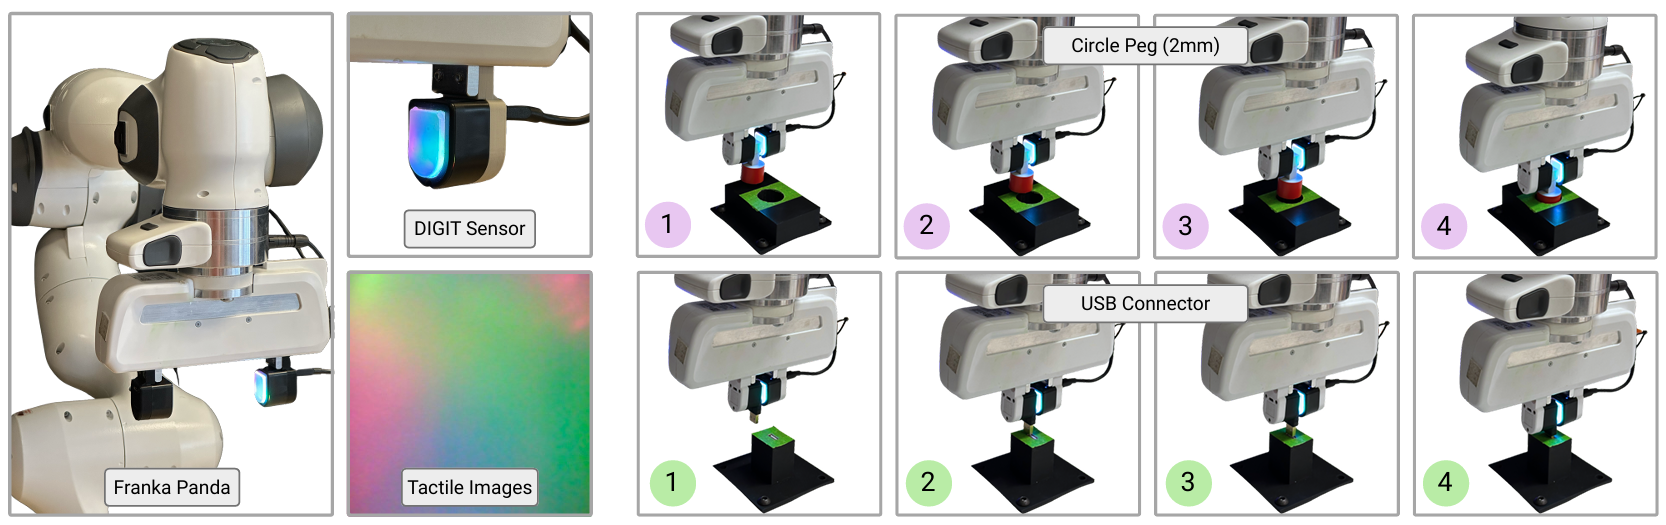
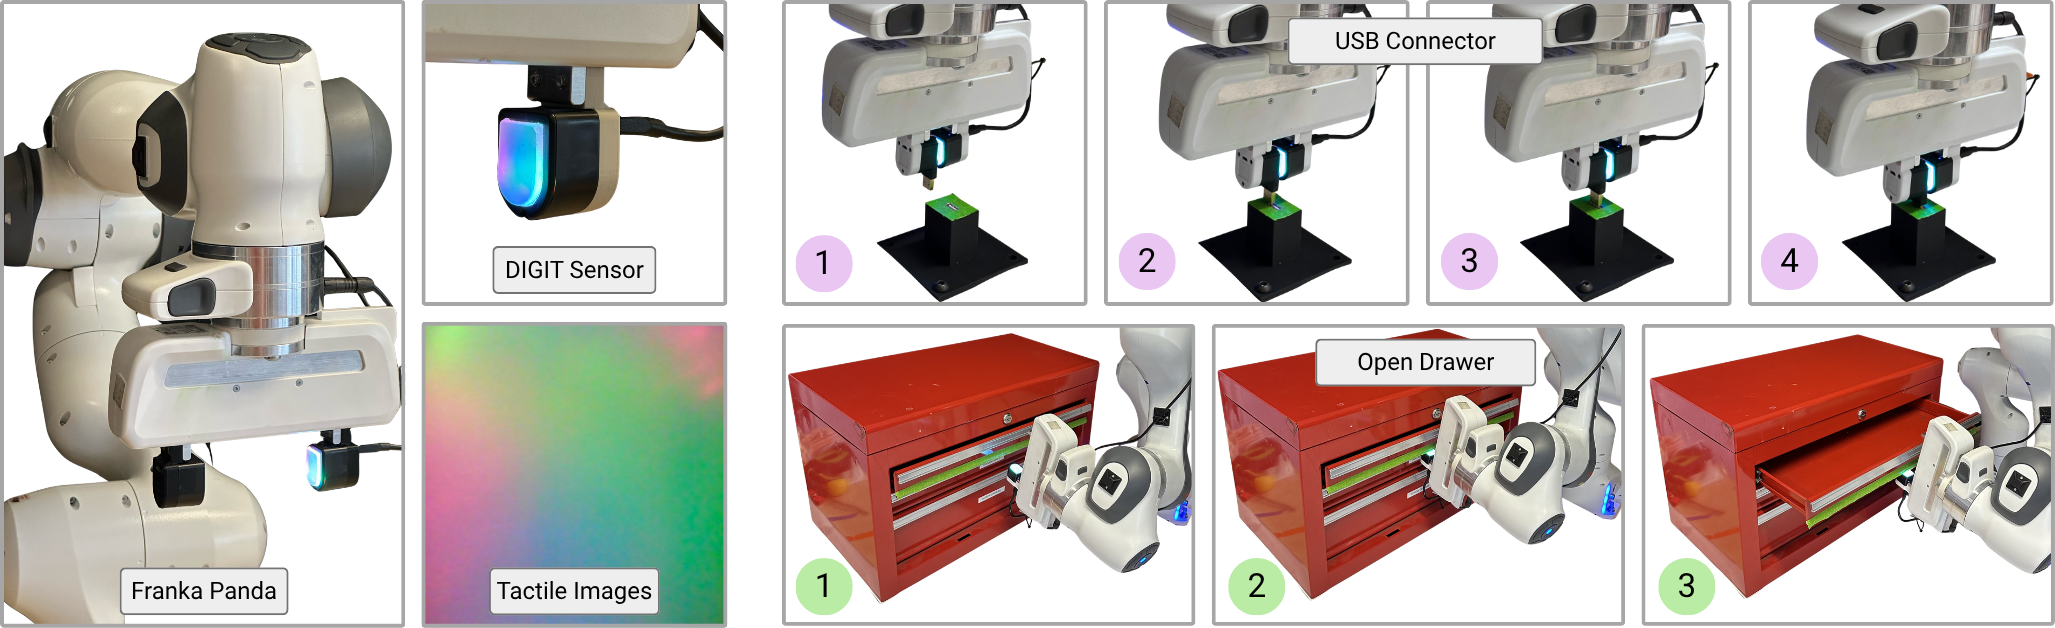
change profile picture and fix project website

diff --git a/_projects/TacFilm.md b/_projects/TacFilm.md
@@ -31,9 +31,10 @@ keywords: Vision-Language-Action (VLA) Models, Tactile Sensing, Multimodal Fusio
 related_publications: true
 ---
 
-{% include video.liquid path="assets/video/TacFiLM_Supplementary.mp4" class="img-fluid rounded z-depth-1" controls=true muted=true loop=true autoplay=true caption="TacFiLM in action on contact-rich manipulation." %}
+{% include video.liquid path="assets/video/TacFiLM_Supplementary.mp4" class="img-fluid rounded" controls=true muted=true loop=true autoplay=true caption="TacFiLM in action on contact-rich manipulation." %}
 
-## Summary
+
+<h2 class="text-center">Summary</h2>
 
 Vision-Language-Action (VLA) models are a powerful recipe for general-purpose robots, but a camera cannot *feel*, and that is exactly what precise, contact-rich tasks demand. **TacFiLM** brings touch to a pretrained VLA through feature-wise linear modulation (FiLM): instead of bolting on extra tactile tokens, it lets tactile signals directly condition the model's visual features. The result keeps the vision-language backbone intact, adds almost no inference overhead, and adapts from modest data, while improving success and force stability on hard insertion tasks. This work was done in collaboration with NVIDIA Research.
 
@@ -41,7 +42,7 @@ Vision-Language-Action (VLA) models are a powerful recipe for general-purpose ro
 
 VLA models map an image and a language instruction straight to actions, and they generalize impressively thanks to internet-scale pretraining. But whether a peg is fully seated, how much a surface grips, or whether the gripper is touching at all simply does not show up reliably in an RGB frame, and occlusion hides the contact at the very moment it matters. Visuo-tactile sensors like [DIGIT](https://digit.ml/) close that gap with a dense image of the contact surface; the real question is how to fold that signal into a VLA without paying for it in compute, data, or stability.
 
-{% include figure.liquid loading="lazy" path="assets/img/tacfilm_overview.png" class="img-fluid rounded z-depth-1" zoomable=true caption="Vision tells the policy where things are; touch tells it what is actually happening at the contact. TacFiLM adds the tactile channel to a pretrained VLA so the model can reason about contact it cannot see." %}
+{% include figure.liquid loading="lazy" path="assets/img/tacfilm_overview.png" class="img-fluid rounded" zoomable=true caption="Vision tells the policy where things are; touch tells it what is actually happening at the contact. TacFiLM adds the tactile channel to a pretrained VLA so the model can reason about contact it cannot see." %}
 
 ## Why naive fusion is expensive
 
@@ -51,13 +52,13 @@ The obvious approach is to encode the tactile image into extra tokens and concat
 
 TacFiLM integrates touch through [feature-wise linear modulation (FiLM)](https://arxiv.org/abs/1709.07871). A tactile encoder reads the contact image and predicts per-channel **scale** (gamma) and **shift** (beta) values; each visual feature is then scaled and offset accordingly. In effect, touch is allowed to reweight and bias what vision sees, amplifying what matters at contact and damping the rest, all without lengthening the sequence the transformer processes. Because we condition rather than re-architect, the [OpenVLA](https://openvla.github.io/) backbone stays intact, latency barely moves, and adaptation is fast and data-efficient. We also reuse **pretrained tactile encoders** such as [T3](https://arxiv.org/abs/2406.13640) and [Sparsh](https://ai.meta.com/research/publications/sparsh-self-supervised-touch-representations-for-vision-based-tactile-sensing/), so TacFiLM benefits from tactile pretraining the same way the VLA already benefits from vision-language pretraining.
 
-{% include figure.liquid loading="lazy" path="assets/img/tacfilm_method.png" class="img-fluid rounded z-depth-1" zoomable=true caption="The TacFiLM architecture. A pretrained tactile encoder maps the contact image to FiLM parameters that modulate the visual features inside the VLA backbone, leaving the vision-language pathway and the action decoder otherwise untouched." %}
+{% include figure.liquid loading="lazy" path="assets/img/tacfilm_method.png" class="img-fluid rounded" zoomable=true caption="The TacFiLM architecture. A pretrained tactile encoder maps the contact image to FiLM parameters that modulate the visual features inside the VLA backbone, leaving the vision-language pathway and the action decoder otherwise untouched." %}
 
 ## Results
 
 We test TacFiLM on contact-rich **insertion** with a [Franka Panda](https://franka.de/) arm and a [DIGIT](https://digit.ml/) sensor, the regime where vision-only policies struggle most. Conditioning on touch lifts both **success rate** and **force stability**, with the largest gains on **tight-tolerance** insertions where feedback carries the most information, and it does so without the cost of token-level fusion. Encouragingly, pretrained tactile encoders transfer cleanly, hinting that touch foundation models can become a reusable building block for VLAs.
 
-{% include figure.liquid loading="lazy" path="assets/img/tacfilm_exps.png" class="img-fluid rounded z-depth-1" zoomable=true caption="Real-robot insertion experiments with a Franka Panda and a DIGIT tactile sensor. TacFiLM improves success rates and force stability over vision-only baselines, with the biggest improvements on tight-tolerance insertions." %}
+{% include figure.liquid loading="lazy" path="assets/img/tacfilm_exps.png" class="img-fluid rounded" zoomable=true caption="Real-robot insertion experiments with a Franka Panda and a DIGIT tactile sensor. TacFiLM improves success rates and force stability over vision-only baselines, with the biggest improvements on tight-tolerance insertions." %}
 
 *Code and data will be released soon, watch this page. More media and qualitative rollouts will be added here as they become available.*
 
